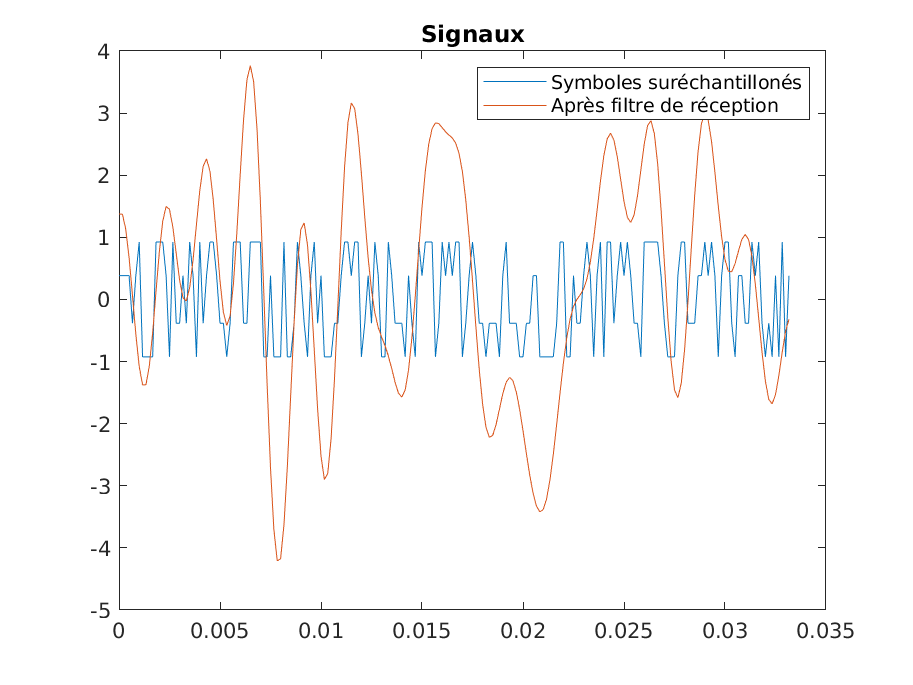
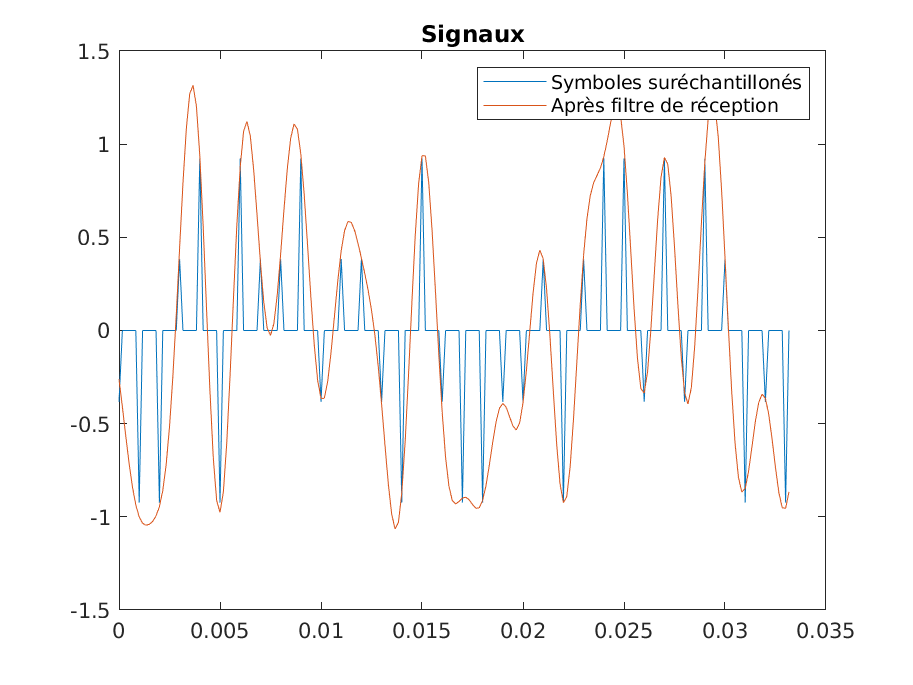
perfection

diff --git a/télécommunications/proj/introduction_synchronisation.m b/télécommunications/proj/introduction_synchronisation.m
@@ -6,11 +6,11 @@ M=2^n;
 
 Fe = 24000;
 Te = 1/Fe;
-Rb = 3000;
+Rb = 6000;
 Tb = 1/Rb;
 
 Ts = n*Tb;
-Nbits = 500;
+Nbits = 100000;
 Ns = floor(Ts/Te);
 
 % BITS
@@ -25,52 +25,85 @@ apres_surechantillonage = kron(apres_mapping, [1 zeros(1, Ns-1)]);
 % FILTRAGE
 f = linspace(-Te/2, Te/2, Ns);
 h = ones(1, Ns); 
-apres_filtrage = filter(h, 1, apres_surechantillonage)
+apres_filtrage = filter(h, 1, apres_surechantillonage);
 
 figure
-plot(t, apres_filtrage)
+plot(apres_filtrage(1:50))
 title("Apres filtrage")
 
 Eb_N0_dBs = 0:0.5:8;
 Eb_N0_lineaires = 10.^(Eb_N0_dBs/10);
 
-teb_exp = zeros(size(Eb_N0_dBs));
-teb_theo = zeros(size(Eb_N0_dBs));
+teb_exp_sans_erreur = zeros(size(Eb_N0_dBs));
+teb_exp_avec_erreur = zeros(size(Eb_N0_dBs));
+teb_theo_sans_erreur = zeros(size(Eb_N0_dBs));
+teb_theo_avec_erreur = zeros(size(Eb_N0_dBs));
 
+erreur_de_phase = 40;
 for index = 1:length(Eb_N0_dBs)
-% INTRODUCTION ERREUR DE PHASE
-erreur_phase = 0 % deg
+    for erreur_phase = [0 erreur_de_phase]
+        % INTRODUCTION ERREUR DE PHASE
+        apres_erreur_phase = apres_filtrage * exp(1j * deg2rad(erreur_phase));
+        
+        % BRUITAGE
+        apres_bruitage = bruitage(apres_erreur_phase, Eb_N0_dBs(index), Ns, M);
+        
+        % FILTRAGE RECEPTION
+        h_r = h;
+        apres_filtrage_reception = filter(h_r, 1, apres_bruitage);
+        
+        % CORRECTION ERREUR DE PHASE
+        estimation_erreur_phase = 0; % deg
+        apres_correction_erreur_phase = apres_filtrage_reception .* exp(-1j * estimation_erreur_phase);
+        
+        % ECHANTILLONAGE
+        apres_echantillonage = apres_correction_erreur_phase(Ns:Ns:end);
 
-apres_erreur_phase = apres_filtrage .* exp(1j * deg2rad(erreur_phase));
-
-% BRUITAGE
-% TODO le bruit est complexe!!!!
-P = mean(abs(apres_surechantillonage).^2);
-sigma = sqrt((P * Ns) ./ (2 * log2(M) .* (Eb_N0_lineaires(index))));
-bruit = 0; % sigma .* randn(1, length(apres_mapping));
-apres_bruitage = apres_erreur_phase + bruit;
-
-% FILTRAGE RECEPTION
-h_r = h;
-apres_filtrage_reception = filter(h_r, 1, apres_bruitage);
-
-% CORRECTION ERREUR DE PHASE
-estimation_erreur_phase = 0 % deg
-apres_correction_erreur_phase = apres_filtrage_reception .* exp(1j * estimation_erreur_phase);
-
-% ECHANTILLONAGE
-apres_echantillonage = apres_correction_erreur_phase(Ns:Ns:end);
-
-% DEMAPPING
-apres_demapping = (apres_echantillonage+1)/2;
-
-% TEB
-teb_theo(index) = qfunc(sqrt(2 * Eb_N0_lineaires(index)))
-teb_exp(index) = length(find((apres_demapping ~= bits))) / length(bits)
+        if mod(index, length(Eb_N0_lineaires)/2) == 0
+            figure
+            scatterplot(apres_echantillonage)
+            title(sprintf("Constellation après échantillonage pour \\phi = %d", erreur_phase))
+        end
+        
+        % DECISION
+        apres_decision = sign(real(apres_echantillonage));
+        
+        % DEMAPPING
+        apres_demapping = (apres_decision+1)/2;
+        
+        % TEB
+        if erreur_phase == 0
+            teb_exp_sans_erreur(index) = length(find((apres_demapping ~= bits))) / length(bits);
+            teb_theo_sans_erreur(index) = qfunc(sqrt(2 * Eb_N0_lineaires(index)) * cos(deg2rad(erreur_phase)));
+        else
+            teb_exp_avec_erreur(index) = length(find((apres_demapping ~= bits))) / length(bits);
+            teb_theo_avec_erreur(index) = qfunc(sqrt(2 * Eb_N0_lineaires(index)) * cos(deg2rad(erreur_phase)));
+        end
+        
+    end
 end
 figure
-plot(teb_theo)
+semilogy(teb_theo_sans_erreur)
 hold on
-plot(teb_exp)
-legend("Théorique","Expérimental")
-title("Comparaison des TEBs")
+semilogy(teb_theo_avec_erreur)
+hold on
+semilogy(teb_exp_sans_erreur)
+hold on
+semilogy(teb_exp_avec_erreur)
+legend("Théorique sans erreur", sprintf("Théorique avec \\phi = %d", erreur_de_phase) ,"Expérimental sans erreur", sprintf("Expérimental avec \\phi = %d", erreur_de_phase))
+title(sprintf("Comparaison des TEBs avec \\phi = %d", erreur_de_phase))
+xlabel("E_b / n_0")
+ylabel("TEB")
+
+% Figures à faire
+% (comparaison TEBs + constellation) avec phi 0 et 40 puis 0 et 100
+
+
+function bruite = bruitage(signal, Eb_N0_dB, Ns, M)
+    Eb_N0_lineaire = 10.^(Eb_N0_dB/10);
+    P = mean(abs(signal).^2);
+    sigma = sqrt((P * Ns) ./ (2 * log2(M) .* (Eb_N0_lineaire)));
+    bruit_reel = sigma .* randn(1, length(signal));
+    bruit_imaginaire = sigma .* randn(1, length(signal)); % 
+    bruite = signal+(bruit_reel + 1i * bruit_imaginaire);
+end

diff --git a/télécommunications/proj/porteuse_8psk.m b/télécommunications/proj/porteuse_8psk.m
@@ -24,14 +24,14 @@ bits = randi([0, 1], 1, Nbits);
 
 
 % MAPPING
-symboles = pskmod(bits', M, pi/M, "gray", "InputType", "bit");
+symboles = pskmod(bi2de(reshape(bits, n, [])'), M, pi/M, "gray")';
 % apres_demapping = reshape(de2bi(pskdemod(apres_decision, M, pi/8, 'gray')), 1, []);
 
 scatterplot(symboles)
 % title("Symboles")
 
 % SURECHANTILLONAGE
-symboles_surech = reshape(kron(symboles, [1 zeros(1, Ns-1)]),1, []);
+symboles_surech = kron(symboles, [1 zeros(1, Ns-1)]);
 t = 0:Te:(length(symboles_surech)-1)*Te;
 
 % plot_complex(symboles_surech, t,"Symboles surechantillonés")
@@ -102,10 +102,12 @@ for i = 1:length(Eb_N0_dBs)
         legend("Symboles suréchantillonés", "Après filtre de réception")
         saveas(gcf, "8psk_comparaison_surech_filtre_reception.png")
     end
-
-
+    
     % DEMAPPING
-    apres_demapping = reshape(pskdemod(apres_decision, M, pi/M, 'gray', 'OutputType', 'bit'), 1, []);
+
+
+
+    apres_demapping = reshape(de2bi(pskdemod(apres_decision, M, pi/M, 'gray')), 1, []);
 
     %figure
     %title("Comparaison bits au début et à la fin de la chaîne")

diff --git a/télécommunications/proj/Partie4.m b/télécommunications/proj/Partie4.m
@@ -33,7 +33,7 @@ for index = 1:length(Eb_N0_dB)
     P = mean(abs(x).^2);
     sigma = sqrt((P * Ns) ./ (2 * log2(M) .* (Eb_N0_lineaire(index))));
     bruit = sigma .* randn(1, length(signal_1_map));
-    r = x+bruit;
+    r = x;%+bruit;
     z = filter(hr,1,r);
     unmapped_ech = z(n_0:Ns:end);
 
